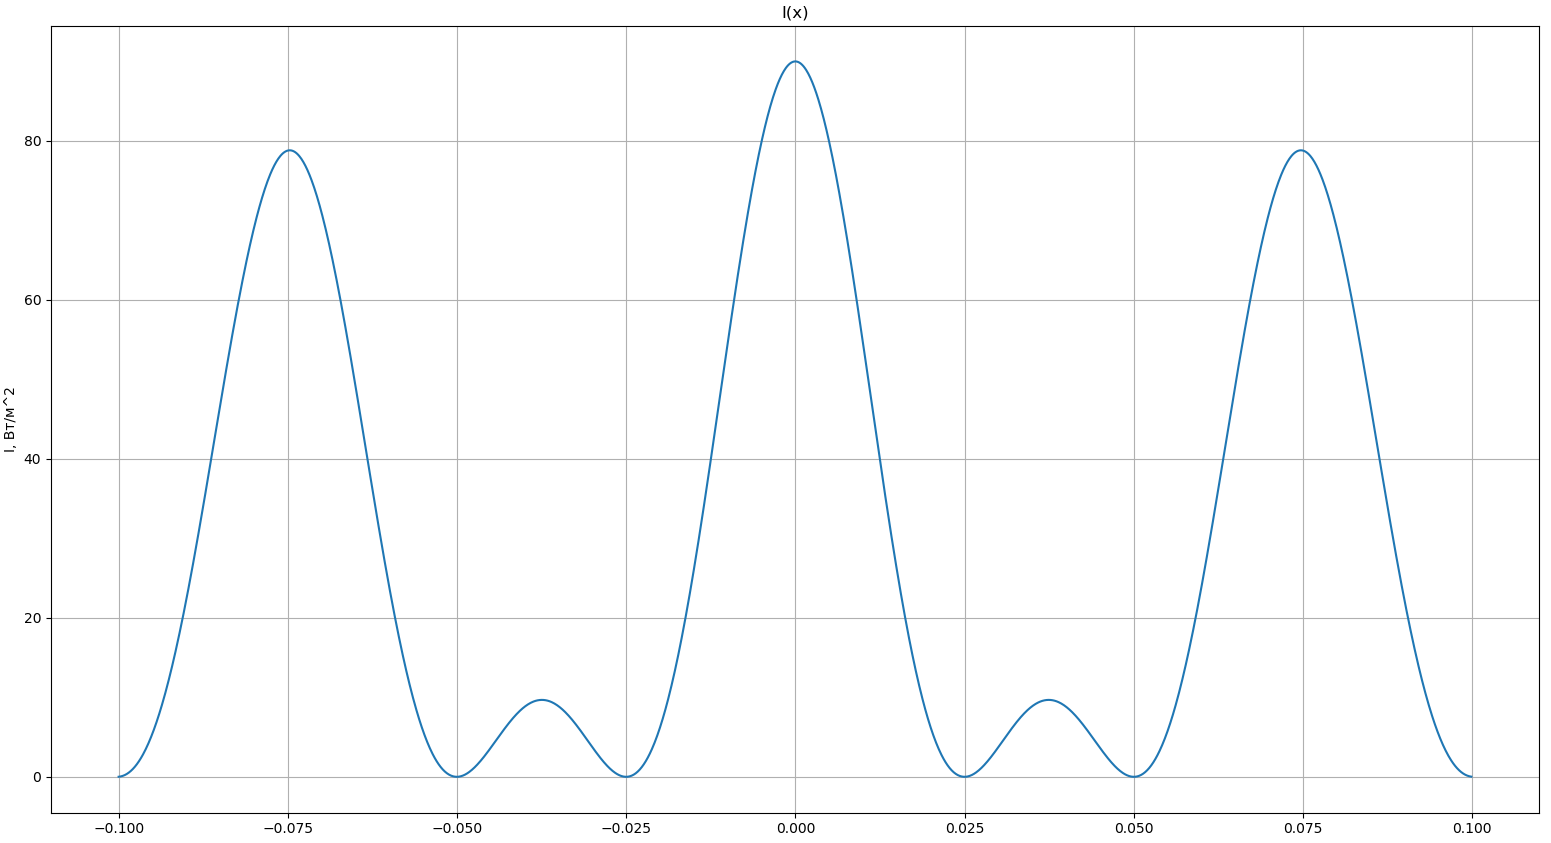
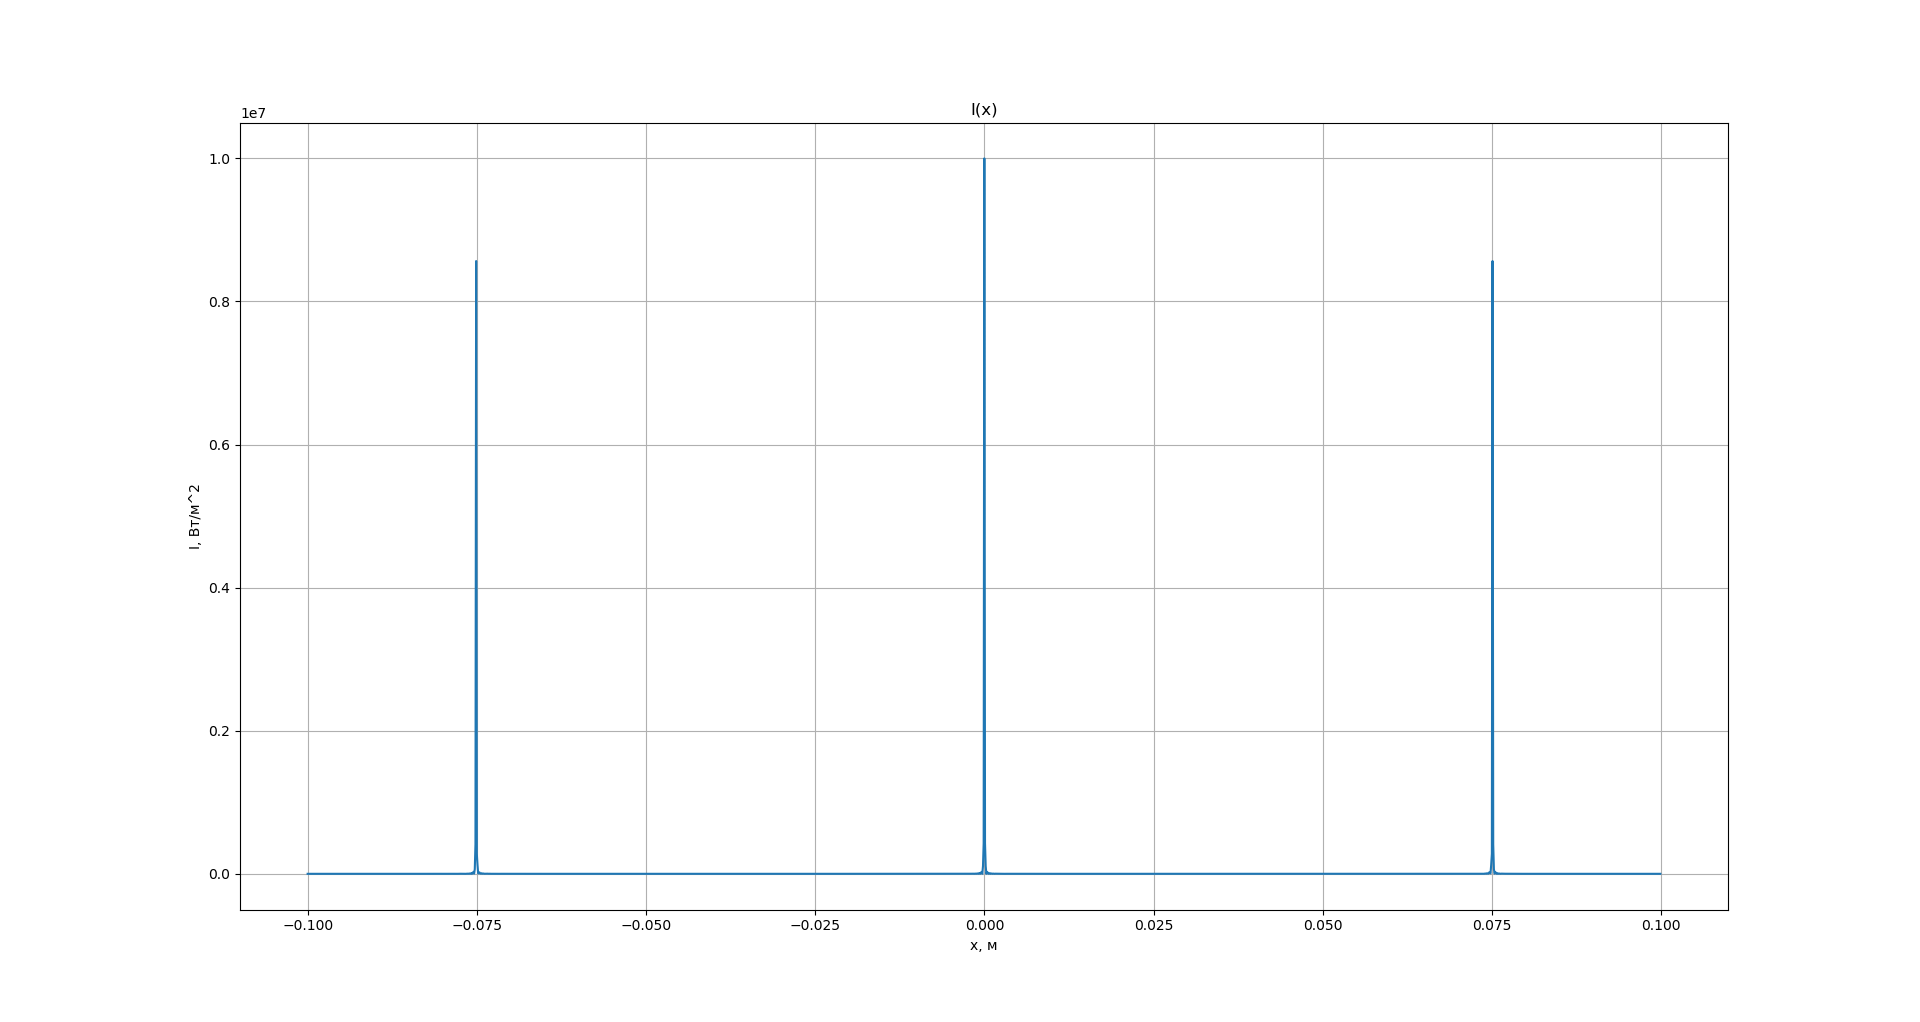
fixed n=1000 not 3

diff --git a/main2.py b/main2.py
@@ -38,7 +38,7 @@ plt.ylabel("I, вт/м^2")
 plt.grid(True)
 ###end of task2
 ###task 3
-lambd, d, b = 500E-9, 10E-6, 2E-6
+lambd, d, b, N = 500E-9, 10E-6, 2E-6, 1000
 i3 = [I2(each) for each in x]
 plt.figure()
 plt.plot(x, i3)
